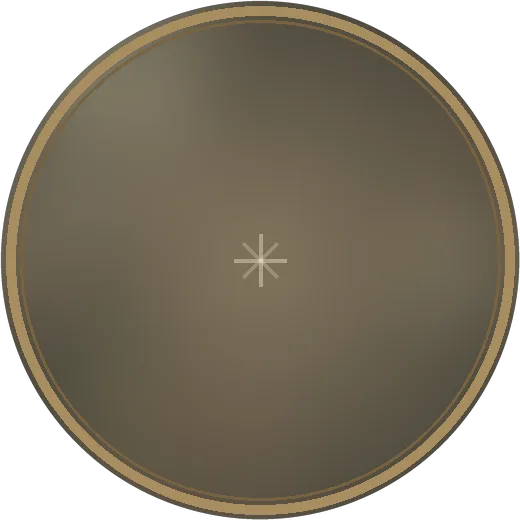
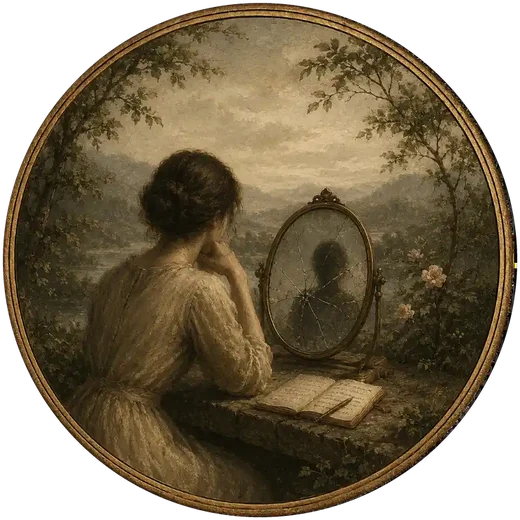
Integra as artes finais dos medalhões na seção de situações
Substitui os 8 placeholders pelas pinturas em medalhão fornecidas pelo
cliente (via upload no GitHub). Cada imagem foi recortada em círculo
com fundo transparente (520px WebP) e mapeada ao card correspondente:

- casal de costas no jardim  -> "A gente tenta conversar..."
- caminho bifurcado + marco   -> "Sinto que a gente se afastou."
- espelho rachado             -> "Às vezes me pergunto se sou eu..."
- casal separado pela fenda   -> "A gente repete os mesmos conflitos."
- mulher na encruzilhada      -> "Vale investir ou já passou do ponto?"
- mulher carregando as pedras -> "Estou carregando isso sozinha."
- casal + criança             -> "Quando o filho chegou..."
- casal na cama de costas     -> "Durmo do lado dele..."

Remove os arquivos de upload avulsos da raiz do repositório.

Claude-Session: https://claude.ai/code/session_01FJHxFmJU2onYZZtvnvcdas

diff --git a/README.md b/README.md
@@ -34,8 +34,9 @@ salvo ("Salvar como → Página completa").
 
 ### Medalhões da seção "Você já se viu em alguma dessas situações?"
 
-Em `assets/img/situacoes/` — um por card, recorte circular com fundo
-transparente (WebP, ~520px). Substituir mantendo os nomes:
+Em `assets/img/situacoes/` — **artes finais** fornecidas pelo cliente:
+pinturas em medalhão com moldura dourada, recortadas em círculo com fundo
+transparente (WebP, 520px). Para trocar, mantenha os mesmos nomes:
 
 | Arquivo | Card |
 |---|---|
